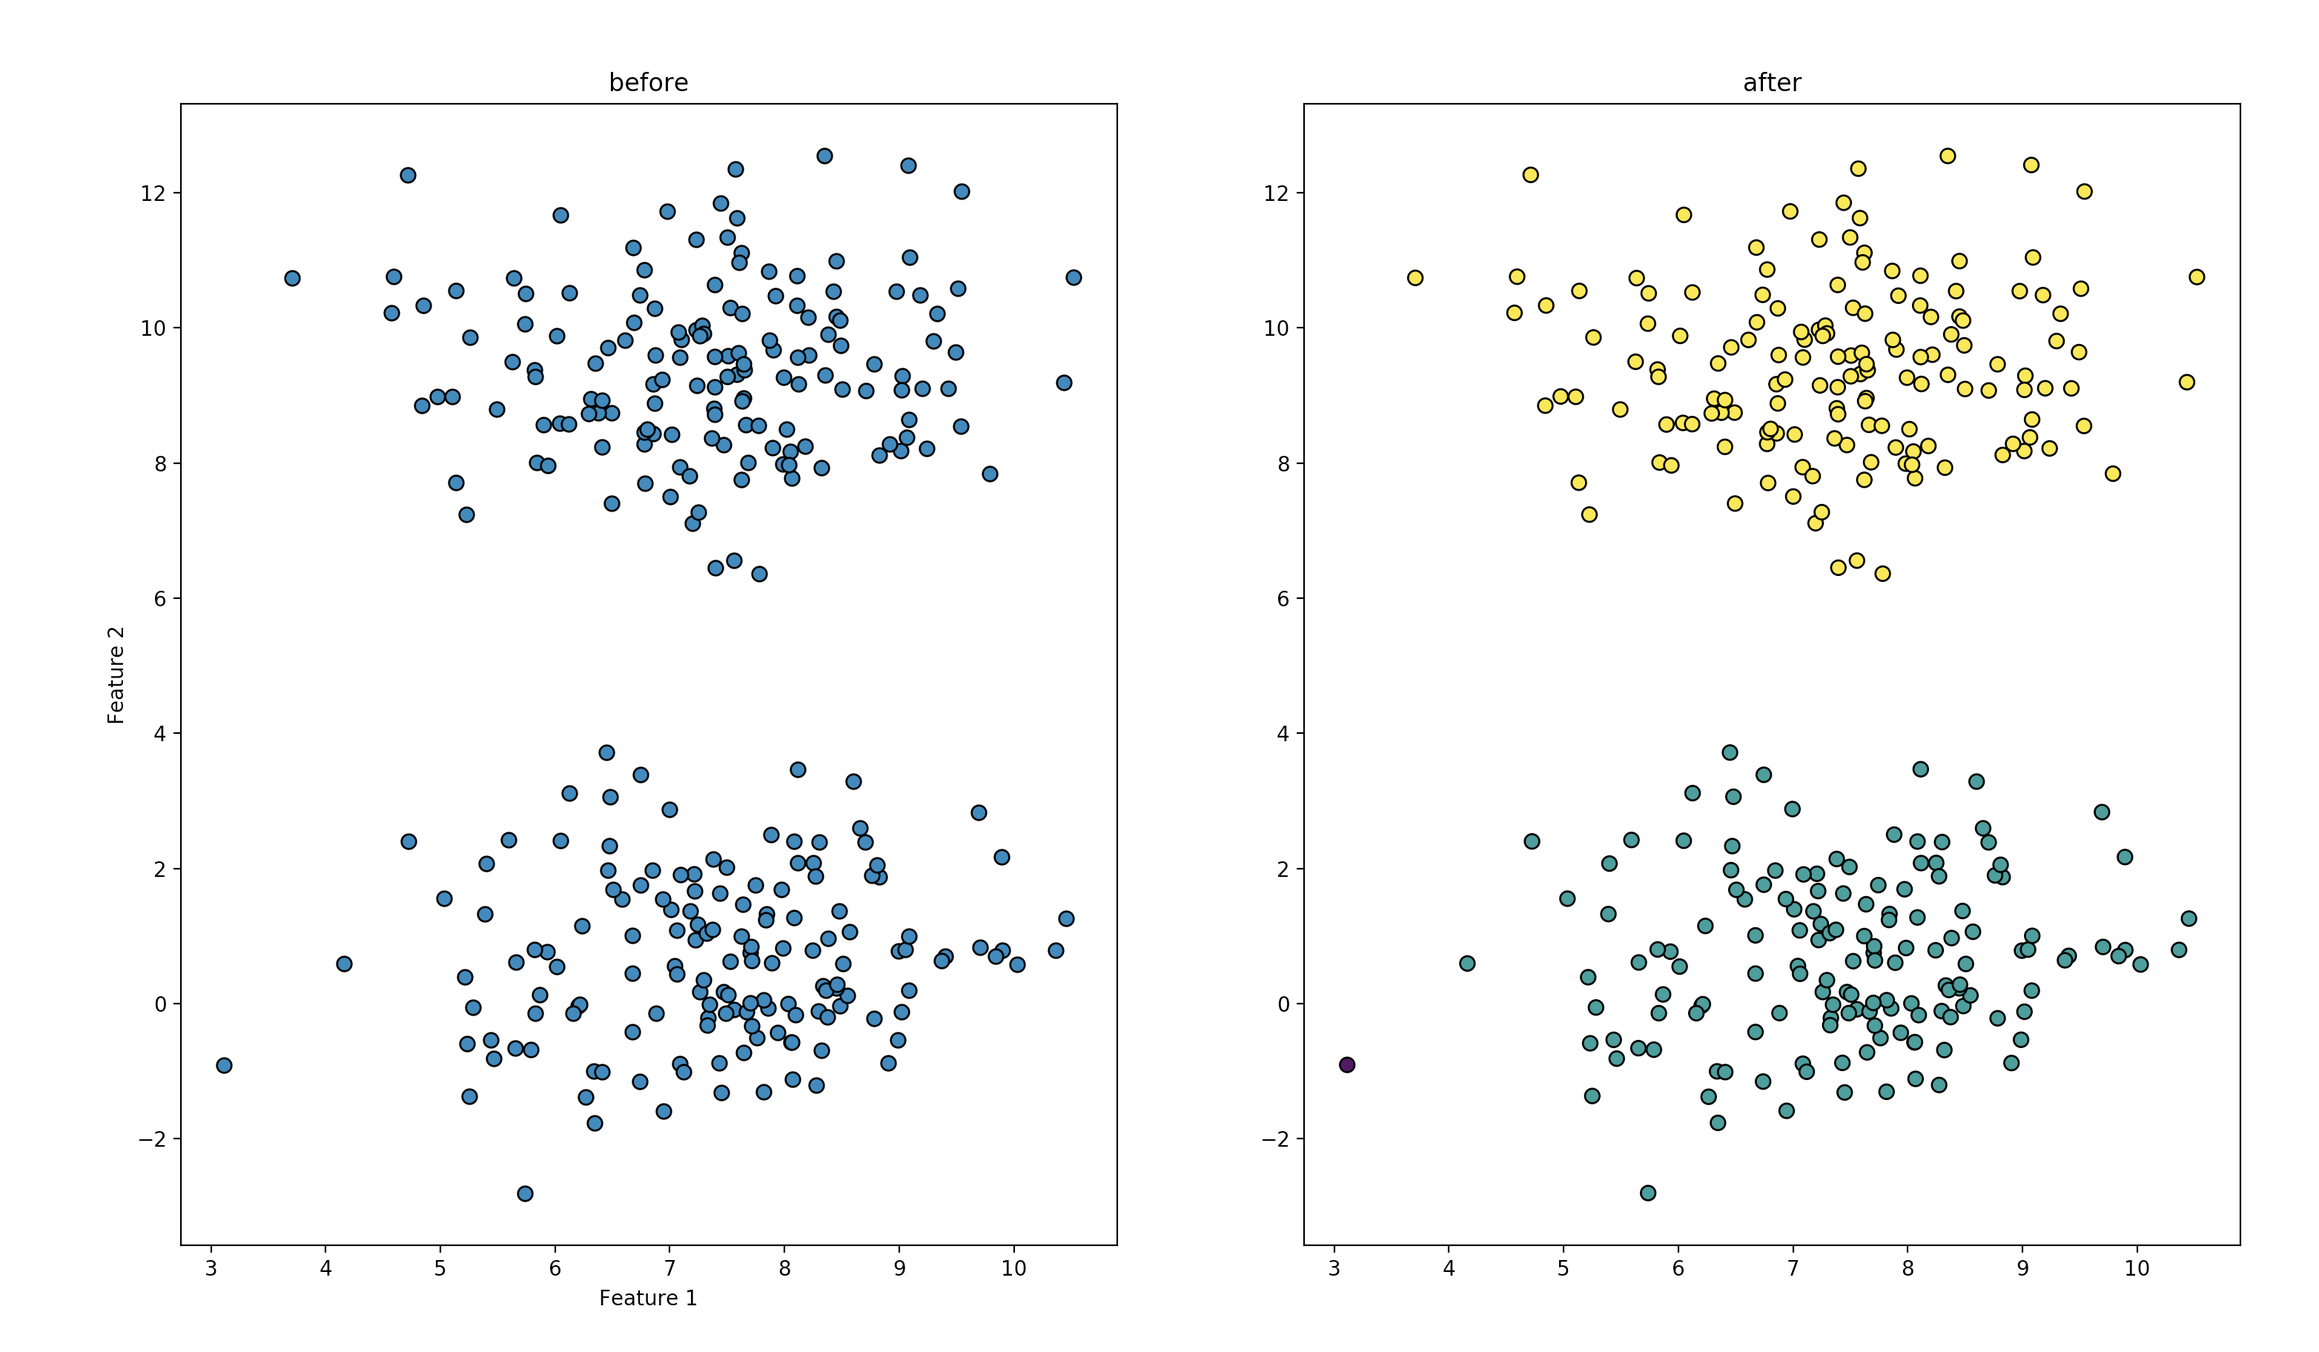
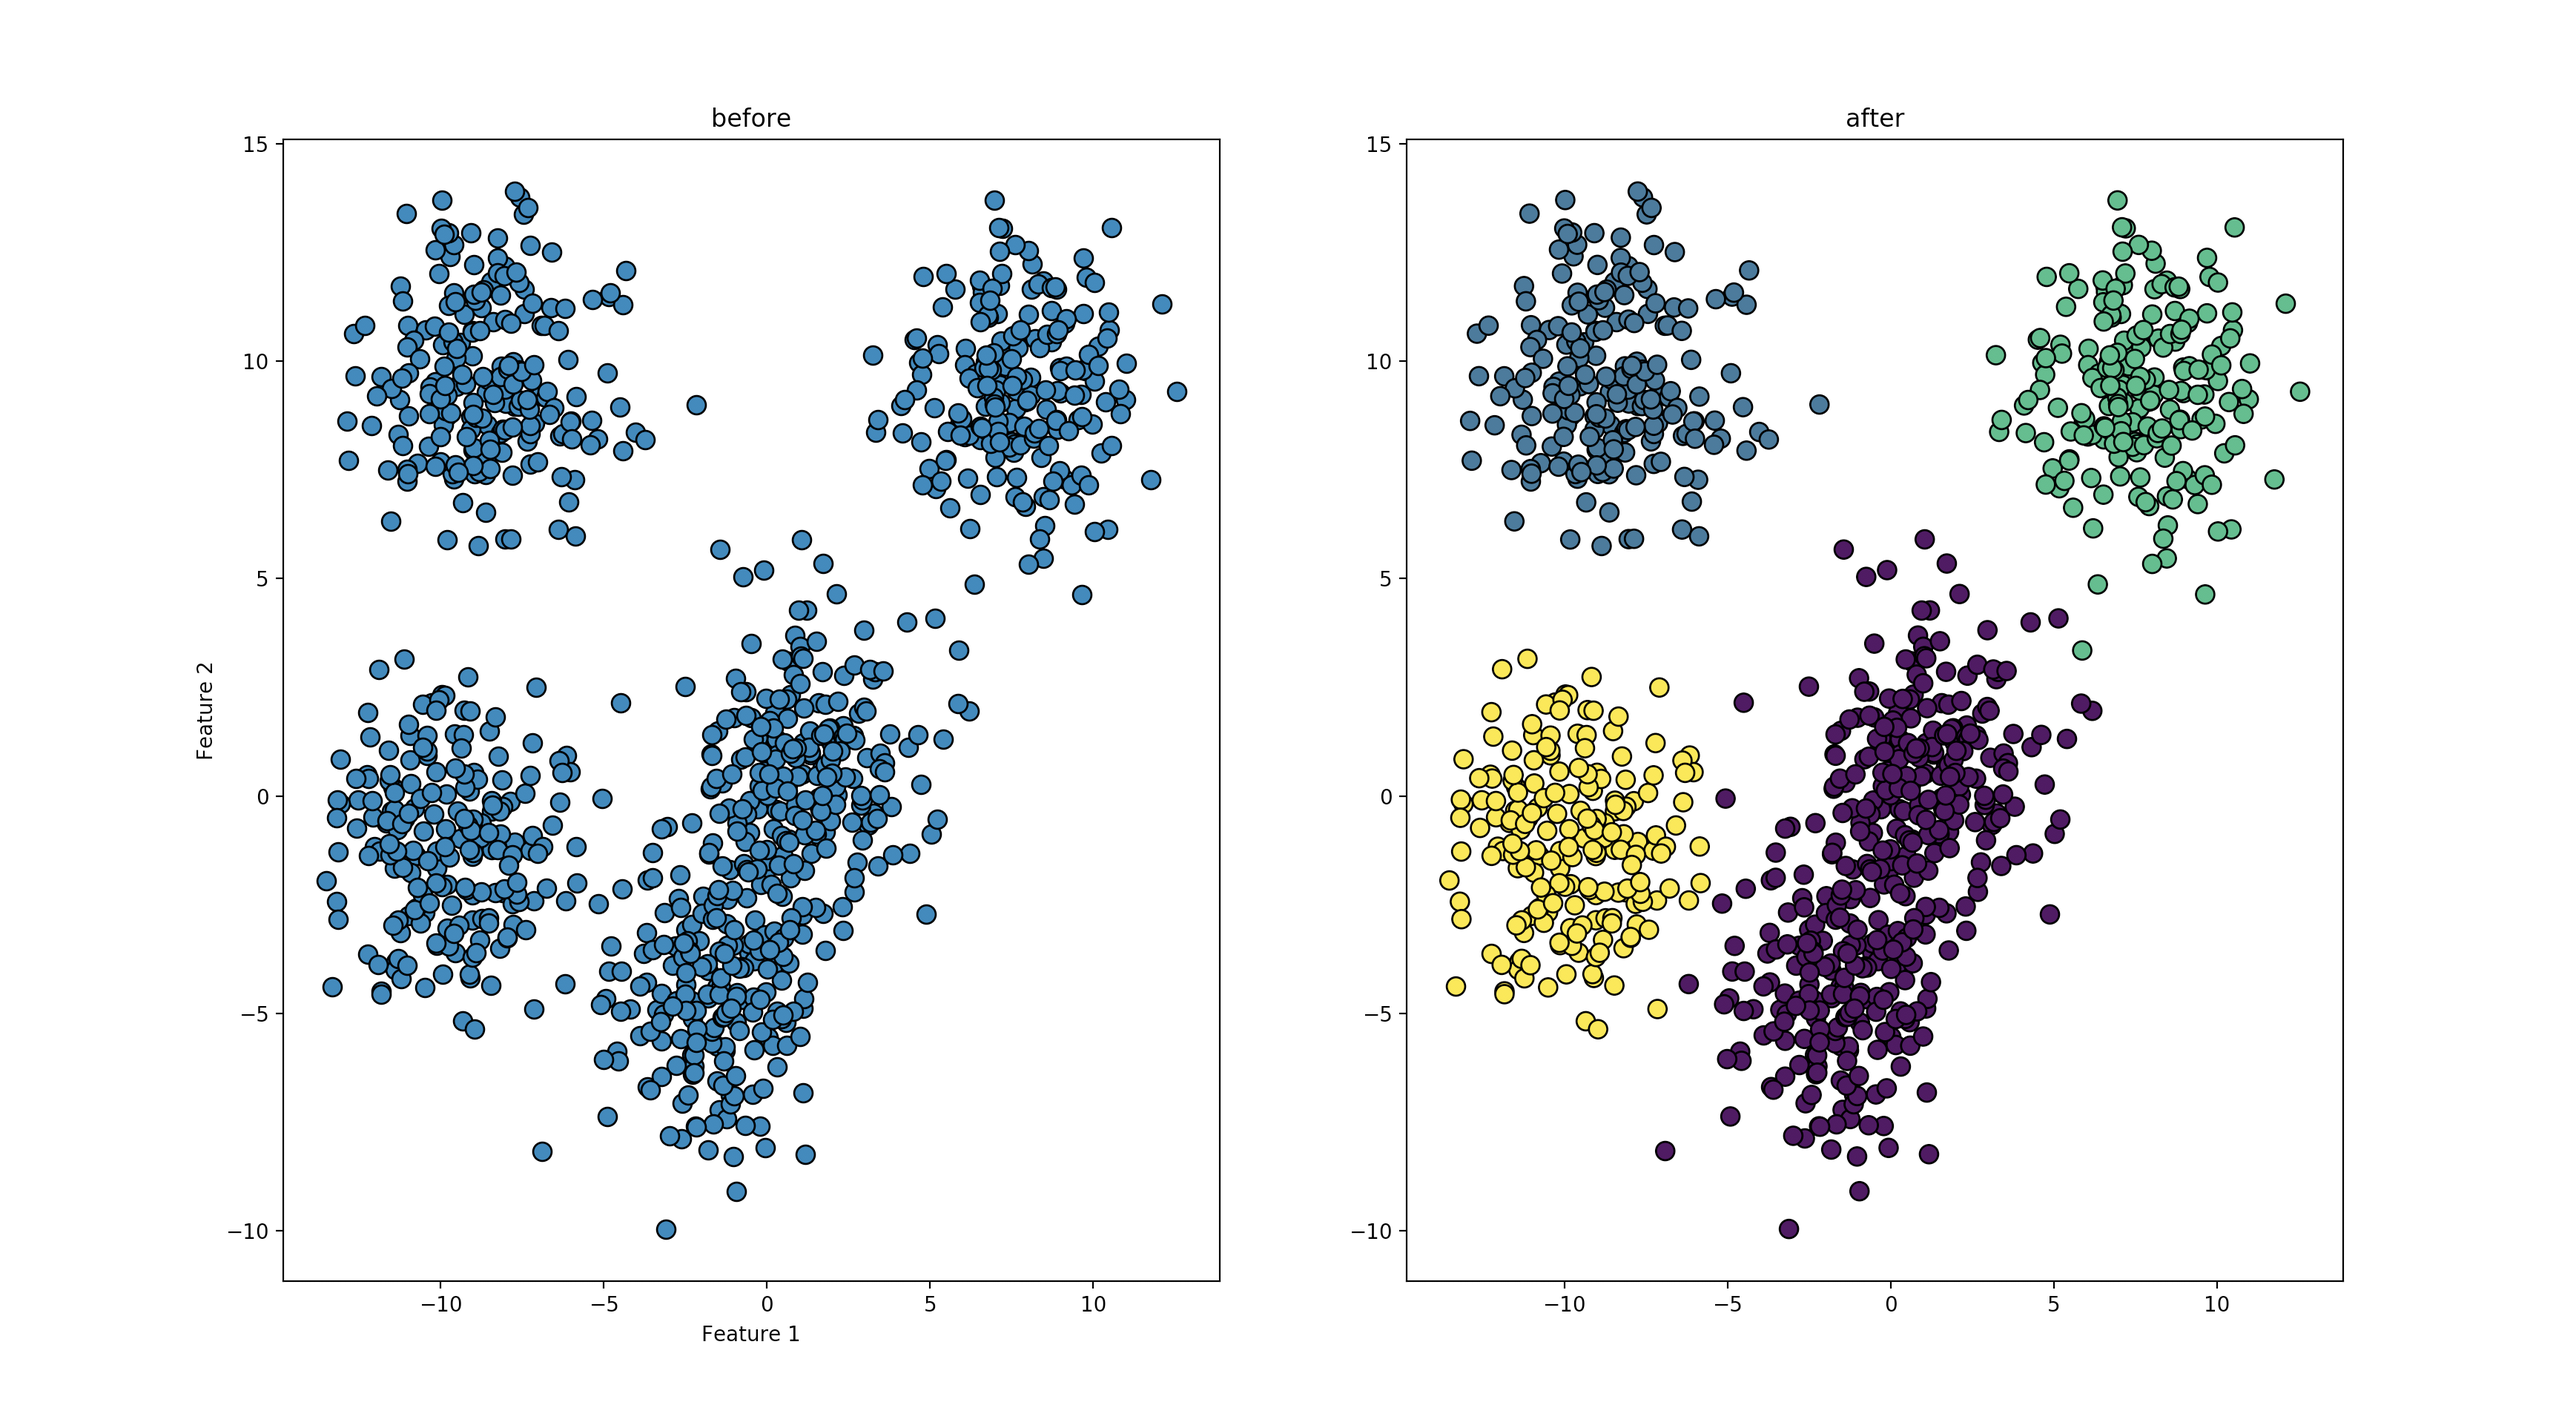
ハイパーパラメータの調整

diff --git a/dbscan/dbscan.py b/dbscan/dbscan.py
@@ -7,22 +7,22 @@ import collections
 
 # サンプルデータの作成
 X, Y = make_blobs(random_state=8,
-                  n_samples=300, 
-                  n_features=2, 
-                  cluster_std=1.2,
-                  centers=2)
+                  n_samples=1000, 
+                  n_features=5, 
+                  cluster_std=1.8,
+                  centers=5)
 print("[X, Y]: ", X)
 
 # クラスタリング前の散布図描画
 plt.figure(figsize=(20, 10))
 plt.subplot(1,2,1)
 plt.title('before')
-plt.scatter(X[:, 0], X[:, 1], marker='o', s=50, edgecolor='k')
+plt.scatter(X[:, 0], X[:, 1], marker='o', s=80, edgecolor='k')
 plt.xlabel("Feature 1")
 plt.ylabel("Feature 2")
 
 # DBSCANの実行
-clustering = DBSCAN(eps=1.7, min_samples=4).fit(X)
+clustering = DBSCAN(eps=4.6, min_samples=8).fit(X)
 clustering.labels_
 print("クラスタリングラベル: ", clustering.labels_)
 
@@ -33,5 +33,5 @@ print("各クラスタの点の個数: ", count)
 # クラスタリング後の散布図描画
 plt.subplot(1,2,2)
 plt.title('after')
-plt.scatter(X[:, 0], X[:, 1], marker='o', c=clustering.labels_, s=50, edgecolor='k')
+plt.scatter(X[:, 0], X[:, 1], marker='o', c=clustering.labels_, s=80, edgecolor='k')
 plt.show()
